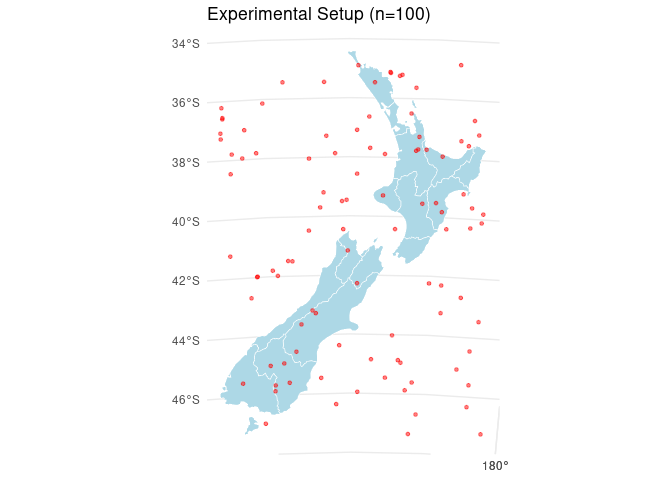
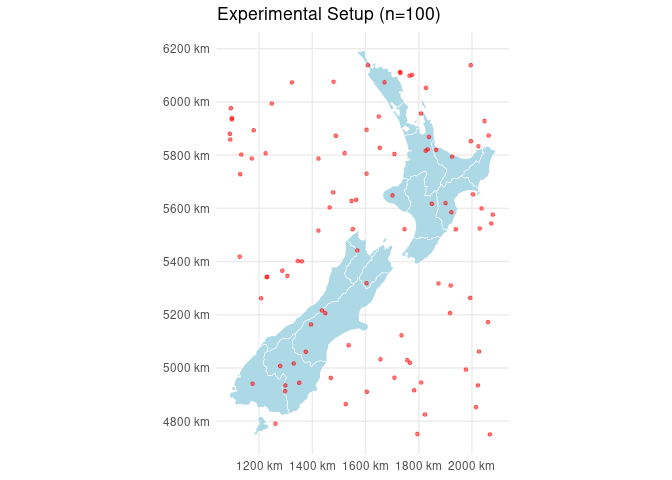
Update setup map: use projected coordinates (km) on axes

diff --git a/README.md b/README.md
@@ -31,6 +31,9 @@ points_sample <- st_sf(geometry = st_sample(bbox_poly, size = 100))
 ggplot() +
   geom_sf(data = nz, fill = "lightblue", color = "white") +
   geom_sf(data = points_sample, color = "red", alpha = 0.5, size = 1) +
+  scale_x_continuous(labels = function(x) paste0(x / 1000, " km")) +
+  scale_y_continuous(labels = function(y) paste0(y / 1000, " km")) +
+  coord_sf(datum = st_crs(nz)) +
   theme_minimal() +
   ggtitle("Experimental Setup (n=100)")
 ```